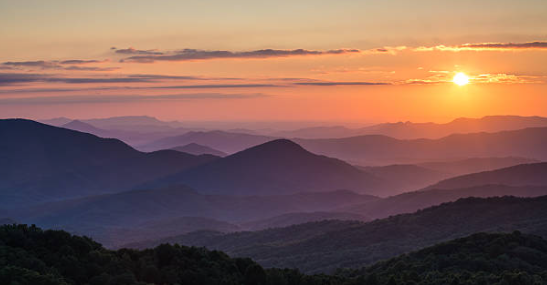
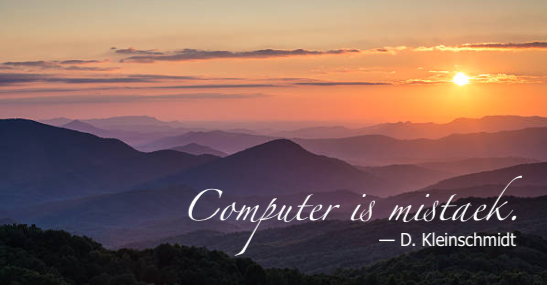
update mistaek image

diff --git a/blog/meme-making/index.html b/blog/meme-making/index.html
@@ -103,7 +103,7 @@
       <figure>
         <img src="assets/mistaek.png" alt="Photo of sunset over mountains, with quote reading “computer is mistaek” over top" />
       </figure>
-      <p>Especially delightful for workplace commentary. #TODO-add text to image</p>
+      <p>Especially delightful for workplace commentary.</p>
       <h3 id="traditional-templated-memes">Traditional templated memes</h3>
       <ol type="1">
         <li>Using an online meme template site (e.g., <a href="https://imgflip.com/memegenerator/X-X-Everywhere">imgflip</a>), add your text to a given template:</li>

diff --git a/blog/meme-making/src.md b/blog/meme-making/src.md
@@ -70,7 +70,7 @@ Start with a pretty landscape; add a text box with your quote of choice.
 
 ![Photo of sunset over mountains, with quote reading "computer is mistaek" over top](assets/mistaek.png)
 
-Especially delightful for workplace commentary. #TODO-add text to image
+Especially delightful for workplace commentary.
 
 ### Traditional templated memes
 
